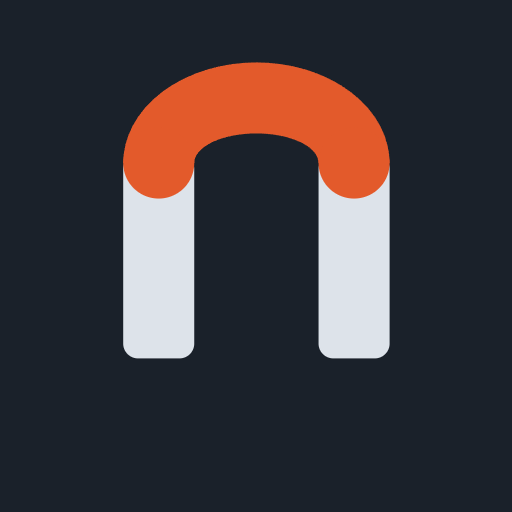
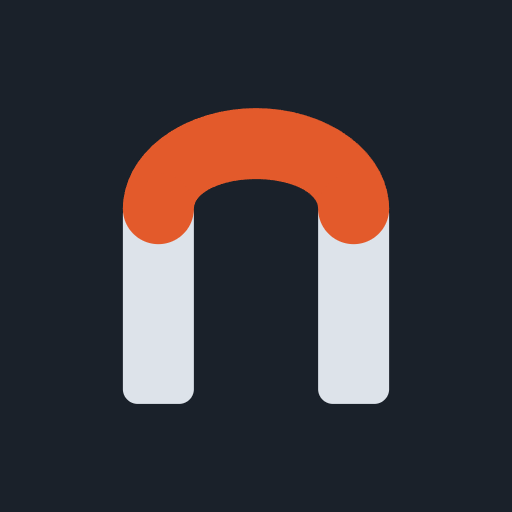
shortcuts: add a dashboard to a home screen and get that dashboard
A browser takes a shortcut's address from the manifest's start_url, and ours is a
static file, so every shortcut landed on the dashboard list. On a dashboard route
the app now offers a manifest of its own, named after the dashboard and starting
on it. The dashboard is in the query as well as the fragment: a browser drops the
fragment when it decides two shortcuts are the same app, and a launcher that drops
it on launch can still be told which dashboard was meant.

The icon is a separate story with the same report behind it. A launcher shows about
the middle two thirds of a maskable icon, so the mark had its top cut off even
though it sat inside the 80% circle the spec promises. The maskable icon is its own
file now, centred, with its furthest ink at 30.5% of the width.

Changed region(s): [[0.2188, 0.0938, 0.7812, 0.5], [0.5938, 0.6875, 0.7812, 0.8125], [0.2188, 0.6875, 0.4062, 0.8125]]

diff --git a/web/src/app/webmanifest.ts b/web/src/app/webmanifest.ts
@@ -1,0 +1,77 @@
+/**
+ * A home-screen shortcut made from a dashboard should open that dashboard.
+ *
+ * Browsers take the shortcut's address from the manifest's start_url, not from the page you were
+ * looking at, and the manifest we ship is a static file - so every shortcut landed on the
+ * dashboard list. The manifest for a dashboard route is built here instead and swapped in as a
+ * data: URL, which Chrome parses with no errors and still counts as installable.
+ *
+ * start_url carries the dashboard twice on purpose. The hash is the route; the ?app= copy is
+ * there because a browser strips the fragment when it works out an app's identity, so two
+ * dashboards differing only after the # would install as the same app - and because a launcher
+ * that drops the fragment can still be told which dashboard was meant (see applyLaunchQuery).
+ */
+
+export type ManifestDashboard = { id: string; name: string }
+
+const ICONS = [
+  { src: 'pwa-192.png', sizes: '192x192', type: 'image/png', purpose: 'any' },
+  { src: 'pwa-512.png', sizes: '512x512', type: 'image/png', purpose: 'any' },
+  { src: 'pwa-maskable-512.png', sizes: '512x512', type: 'image/png', purpose: 'maskable' }
+]
+
+export function buildDashboardManifest(dashboard: ManifestDashboard, pageUrl: string): Record<string, unknown> {
+  const here = new URL(pageUrl)
+  here.hash = ''
+  here.search = ''
+  const start = new URL(here.href)
+  start.searchParams.set('app', dashboard.id)
+  start.hash = '/d/' + encodeURIComponent(dashboard.id)
+  const label = dashboard.name.trim() || dashboard.id
+
+  // no id member: a browser falls back to start_url, which ?app= already makes one per dashboard
+  return {
+    name: `${label} - neohab`,
+    short_name: label,
+    description: 'Dashboards for openHAB',
+    start_url: start.href,
+    scope: new URL('./', here).href,
+    display: 'standalone',
+    background_color: '#0f1317',
+    theme_color: '#0f1317',
+    icons: ICONS.map((i) => ({ ...i, src: new URL(i.src, here).href }))
+  }
+}
+
+export function manifestHref(dashboard: ManifestDashboard, pageUrl: string): string {
+  return 'data:application/manifest+json,' + encodeURIComponent(JSON.stringify(buildDashboardManifest(dashboard, pageUrl)))
+}
+
+let shippedHref: string | null = null
+
+/**
+ * Already running as an installed app? Then there is no add-to-home-screen to serve, and a browser
+ * that spotted a different manifest under an installed app might take it for an update and rename
+ * the icon somebody already has.
+ */
+function installedHere(): boolean {
+  if (typeof window.matchMedia !== 'function') return false
+  // standalone and nothing else: an installed neohab is always standalone, where a browser at
+  // F11 reports fullscreen and is still just a browser
+  return window.matchMedia('(display-mode: standalone)').matches
+}
+
+/** Point the document at this dashboard's manifest, or back at the one the add-on ships. */
+export function syncAppManifest(dashboard: ManifestDashboard | null): void {
+  const link = document.querySelector<HTMLLinkElement>('link[rel="manifest"]')
+  if (!link) return
+  if (shippedHref === null) shippedHref = link.href
+  const href = dashboard && !installedHere() ? manifestHref(dashboard, window.location.href) : shippedHref
+  if (link.href !== href) link.href = href
+}
+
+/** iOS names a shortcut after the page, not the manifest. */
+export function syncTitle(dashboard: ManifestDashboard | null): void {
+  const label = dashboard ? dashboard.name.trim() || dashboard.id : ''
+  document.title = label ? `${label} - neohab` : 'neohab'
+}

diff --git a/web/src/app/webmanifest.test.ts b/web/src/app/webmanifest.test.ts
@@ -1,0 +1,64 @@
+import { describe, expect, it } from 'vitest'
+import { buildDashboardManifest, manifestHref } from './webmanifest'
+import { parseHash } from './router'
+
+const PAGE = 'http://box:8080/neohab/index.html'
+
+describe('buildDashboardManifest', () => {
+  it('starts on the dashboard, not the dashboard list', () => {
+    const m = buildDashboardManifest({ id: 'mobile', name: 'Mobile' }, PAGE + '#/d/mobile')
+    expect(m.start_url).toBe('http://box:8080/neohab/index.html?app=mobile#/d/mobile')
+    expect(m.scope).toBe('http://box:8080/neohab/')
+  })
+
+  it('names the shortcut after the dashboard', () => {
+    const m = buildDashboardManifest({ id: 'mobile', name: 'Mobile' }, PAGE)
+    expect(m.short_name).toBe('Mobile')
+    expect(m.name).toBe('Mobile - neohab')
+  })
+
+  it('falls back to the id when the dashboard has no name', () => {
+    const m = buildDashboardManifest({ id: 'kitchen', name: '  ' }, PAGE)
+    expect(m.short_name).toBe('kitchen')
+  })
+
+  it('gives two dashboards two start_urls, ignoring the fragment', () => {
+    const a = buildDashboardManifest({ id: 'mobile', name: 'Mobile' }, PAGE)
+    const b = buildDashboardManifest({ id: 'kitchen', name: 'Kitchen' }, PAGE)
+    const withoutHash = (m: Record<string, unknown>) => String(m.start_url).split('#')[0]
+    // a browser strips the fragment before it decides two shortcuts are the same app
+    expect(withoutHash(a)).not.toBe(withoutHash(b))
+  })
+
+  it('survives a dashboard id that needs escaping', () => {
+    const id = 'Guest Room/1'
+    const m = buildDashboardManifest({ id, name: 'Guest' }, PAGE)
+    const start = new URL(String(m.start_url))
+    expect(start.searchParams.get('app')).toBe(id)
+    expect(parseHash(start.hash)).toEqual({ name: 'dashboard', id })
+  })
+
+  it('drops whatever query and hash the page already had', () => {
+    const m = buildDashboardManifest({ id: 'mobile', name: 'Mobile' }, PAGE + '?theme=none#/d/other')
+    expect(m.start_url).toBe('http://box:8080/neohab/index.html?app=mobile#/d/mobile')
+  })
+
+  it('points at icons the add-on serves, absolutely', () => {
+    const m = buildDashboardManifest({ id: 'mobile', name: 'Mobile' }, PAGE)
+    const icons = m.icons as { src: string; purpose: string }[]
+    expect(icons.map((i) => i.src)).toEqual([
+      'http://box:8080/neohab/pwa-192.png',
+      'http://box:8080/neohab/pwa-512.png',
+      'http://box:8080/neohab/pwa-maskable-512.png'
+    ])
+    expect(icons.filter((i) => i.purpose === 'maskable')).toHaveLength(1)
+  })
+
+  it('is a manifest a browser can read off the link', () => {
+    const href = manifestHref({ id: 'mobile', name: 'Mobile' }, PAGE)
+    expect(href.startsWith('data:application/manifest+json,')).toBe(true)
+    const json = JSON.parse(decodeURIComponent(href.slice('data:application/manifest+json,'.length)))
+    expect(json.display).toBe('standalone')
+    expect(json.name).toBe('Mobile - neohab')
+  })
+})

diff --git a/web/vite.config.ts b/web/vite.config.ts
@@ -35,15 +35,20 @@ export default defineConfig(({ mode }) => {
           background_color: '#0f1317',
           theme_color: '#0f1317',
           icons: [
-            { src: 'pwa-192.png', sizes: '192x192', type: 'image/png' },
-            { src: 'pwa-512.png', sizes: '512x512', type: 'image/png' },
-            { src: 'pwa-512.png', sizes: '512x512', type: 'image/png', purpose: 'maskable' },
+            { src: 'pwa-192.png', sizes: '192x192', type: 'image/png', purpose: 'any' },
+            { src: 'pwa-512.png', sizes: '512x512', type: 'image/png', purpose: 'any' },
+            // its own file: a launcher shows about the middle two thirds of a maskable icon, so
+            // the mark has to sit smaller in it than in the ones nothing crops
+            { src: 'pwa-maskable-512.png', sizes: '512x512', type: 'image/png', purpose: 'maskable' },
           ],
         },
         workbox: {
           globPatterns: ['index.html', 'assets/*.{js,css}', 'tile.png', 'pwa-*.png', 'favicon.{svg,ico}', 'apple-touch-icon.png', 'fonts/*.woff2', 'backgrounds/*.jpg', 'docs/*.html'],
           globIgnores: ['**/hls-*.js'],
           navigateFallback: null,
+          // a shortcut into a dashboard launches index.html?app=<id>, which has to hit the same
+          // precached index.html or an offline wall panel gets nothing
+          ignoreURLParametersMatching: [/^app$/, /^utm_/, /^fbclid$/],
         },
       }),
     ],

diff --git a/web/src/App.tsx b/web/src/App.tsx
@@ -10,6 +10,7 @@ import { notify } from './store/notify'
 import { refreshAuthStatus } from './store/auth'
 import { applyTheme, cacheTheme, resolveTheme, urlThemeOverride } from './themes/themes'
 import { useRoute } from './app/router'
+import { syncAppManifest, syncTitle } from './app/webmanifest'
 import { Home } from './app/Home'
 import { DashboardView } from './app/DashboardView'
 import { SettingsView } from './app/SettingsView'
@@ -45,6 +46,16 @@ export default function App({ credentialsReady }: { credentialsReady?: Promise<u
     applyTheme(theme)
     if (!forced) cacheTheme(theme)
   }, [loaded, themeId, deviceThemeId, customThemes])
+
+  // installing from a dashboard should pin that dashboard, so the manifest the browser reads
+  // names it; anywhere else the add-on's own manifest stands
+  const dashId = route.name === 'dashboard' ? route.id : null
+  const dashName = useConfigStore((s) => (dashId ? (s.dashboards.find((d) => d.id === dashId)?.name ?? null) : null))
+  useEffect(() => {
+    const dashboard = dashId !== null && dashName !== null ? { id: dashId, name: dashName } : null
+    syncAppManifest(dashboard)
+    syncTitle(dashboard)
+  }, [dashId, dashName])
 
   useEffect(() => {
     let cancelled = false

diff --git a/web/src/app/router.ts b/web/src/app/router.ts
@@ -33,6 +33,24 @@ export function parseHash(hash: string): Route {
   return { name: 'home' }
 }
 
+/**
+ * A home-screen shortcut's start_url names its dashboard in ?app= as well as in the hash, so a
+ * launcher that drops the fragment still opens the right one. Runs once at boot, before anything
+ * else can navigate; replaceState rather than a hash assignment so it leaves no history step to
+ * go back to.
+ */
+export function applyLaunchQuery(): void {
+  try {
+    const id = new URLSearchParams(window.location.search).get('app')
+    if (!id) return
+    if (parseHash(window.location.hash).name !== 'home') return
+    const { pathname, search } = window.location
+    history.replaceState(null, '', pathname + search + '#/d/' + encodeURIComponent(id))
+  } catch {
+    // replaceState throws on an opaque origin, and this runs before anything can catch for us
+  }
+}
+
 function subscribe(cb: () => void): () => void {
   window.addEventListener('hashchange', cb)
   return () => window.removeEventListener('hashchange', cb)

diff --git a/web/src/main.tsx b/web/src/main.tsx
@@ -5,11 +5,13 @@ import './i18n'
 import App from './App.tsx'
 import { AppBoundary } from './components/AppBoundary.tsx'
 import { applyCachedTheme } from './themes/themes.ts'
+import { applyLaunchQuery } from './app/router.ts'
 import { applyDeviceTextSize } from './store/textsize.ts'
 import { installHistoryHook } from './store/history.ts'
 import { restoreBasicCredentials } from './api/auth.ts'
 import './app.css'
 
+applyLaunchQuery()
 applyCachedTheme()
 applyDeviceTextSize()
 

diff --git a/README.md b/README.md
@@ -285,9 +285,10 @@ See **[Making a theme](docs/theming.md)** for the tokens, the class names and th
 
 - **Wall panels and kiosks.** Installable as an app (PWA) with an offline-capable shell, and able
   to keep the screen awake - both of those need HTTPS, because browsers only offer them in a
-  secure context. Per device: blank after idle or show a drifting clock, open onto a pinned
-  dashboard, and hide all chrome in kiosk mode. A dashboard-control item lets your rules switch
-  what every panel shows.
+  secure context. Adding it to a home screen while a dashboard is open pins that dashboard: the
+  icon is named after it and opens straight into it, so you can keep several side by side. Per
+  device: blank after idle or show a drifting clock, open onto a pinned dashboard, and hide all
+  chrome in kiosk mode. A dashboard-control item lets your rules switch what every panel shows.
 - **Voice and audio.** openHAB's Web Audio sink plays through the browser, a speech item announces
   changes out loud, and a microphone button sends spoken commands to the interpreter. Each device
   decides whether it joins in.

diff --git a/CHANGELOG.md b/CHANGELOG.md
@@ -7,6 +7,13 @@ Anything not listed here yet is on `main` and ships with the next release.
 
 ## Unreleased
 
+- Adding neohab to a phone's home screen while a dashboard is open now pins that dashboard. The
+  icon is named after it and opens straight into it, and a second dashboard gets a second icon
+  rather than replacing the first. Adding it from the dashboard list still gives a plain neohab
+  icon.
+- The app icon no longer has the top of its arch cut off on Android. A launcher only shows about
+  the middle two thirds of an icon, so the mark now sits centred and small enough to survive that.
+
 ## 1.25.0
 
 - neohab has a logo: the name in Poppins with a doorway for its n and its windows lit in the
